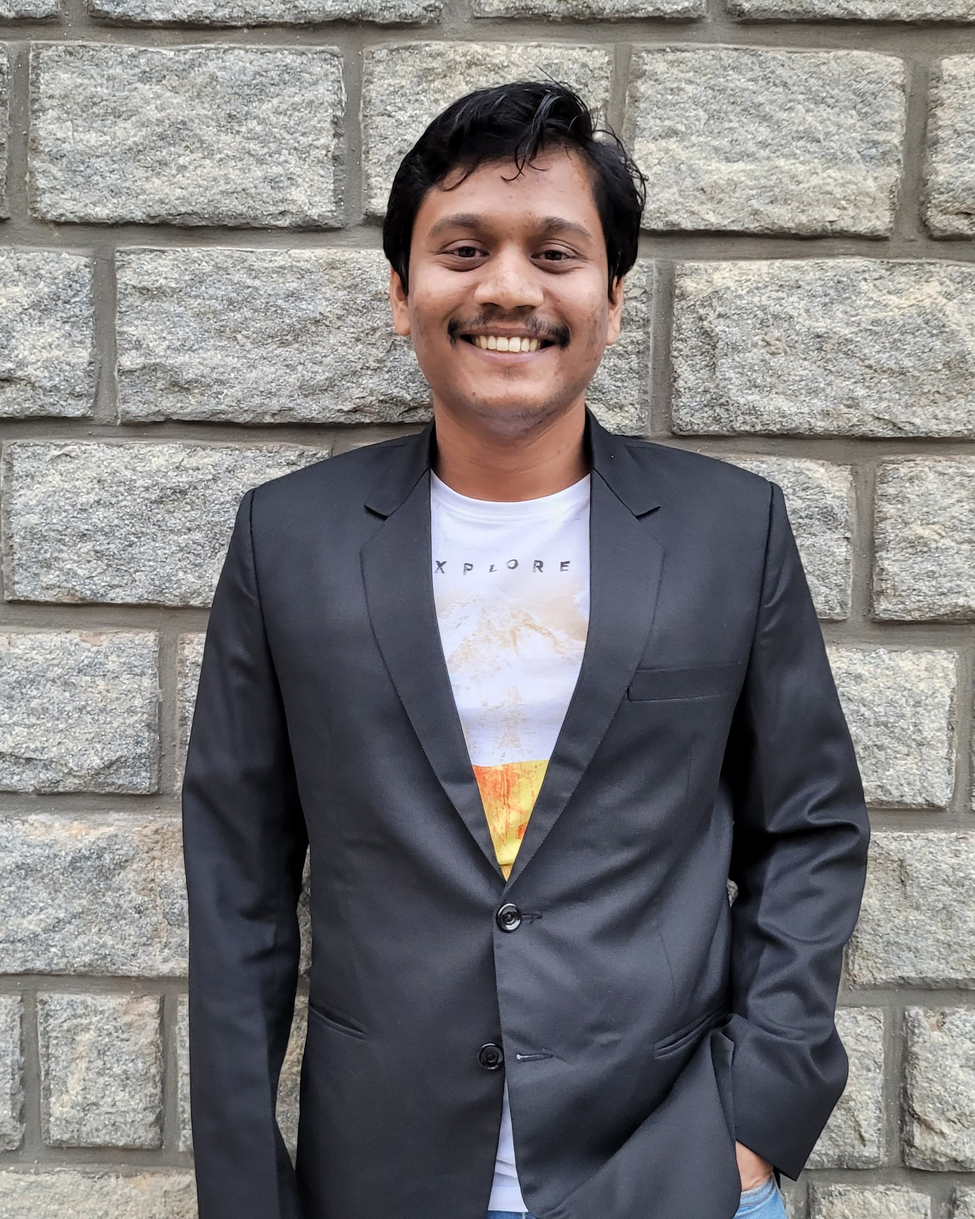
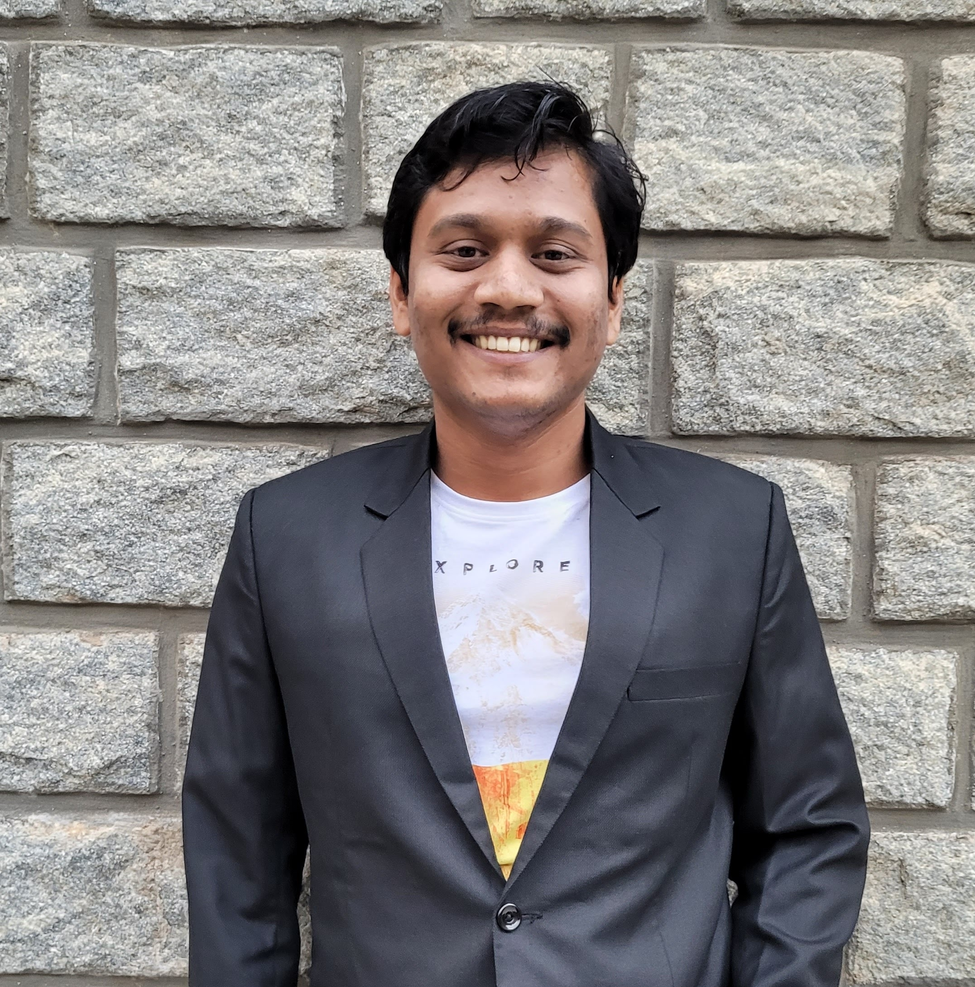
updating pics

diff --git a/About.html b/About.html
@@ -54,7 +54,7 @@
       <div class="row rowCustom">
         <div class="fcolumn">
           <div class="card">
-            <img src="assets/team0.jpg" alt="Jane" class="founderimage">
+            <img src="assets/team0.jpeg" alt="Jane" class="founderimage">
             <div class="container">
               <h2>Pooja</h2>
               <p class="title">CEO & Founder</p>
@@ -81,7 +81,7 @@
       
         <div class="column">
           <div class="card">
-            <img src="assets/team2.jpeg" alt="Sameeksha" class="image" >
+            <img src="assets/team2.png" alt="Sameeksha" class="image" >
             <div class="container">
               <h4>Sameeksha Rai</h4>
             </div>
@@ -90,7 +90,7 @@
       
         <div class="column">
           <div class="card">
-            <img src="assets/team3.png" alt="TJ" class="image">
+            <img src="assets/team3.JPG" alt="TJ" class="image">
             <div class="container">
               <h4>Tarunjot Singh</h4>
             </div>
@@ -99,7 +99,7 @@
 
         <div class="column">
           <div class="card">
-            <img src="assets/team4.png" alt="Rucha" class="image">
+            <img src="assets/team4.jpeg" alt="Rucha" class="image">
             <div class="container">
               <h4>Rucha Bokade</h4>
             </div>
